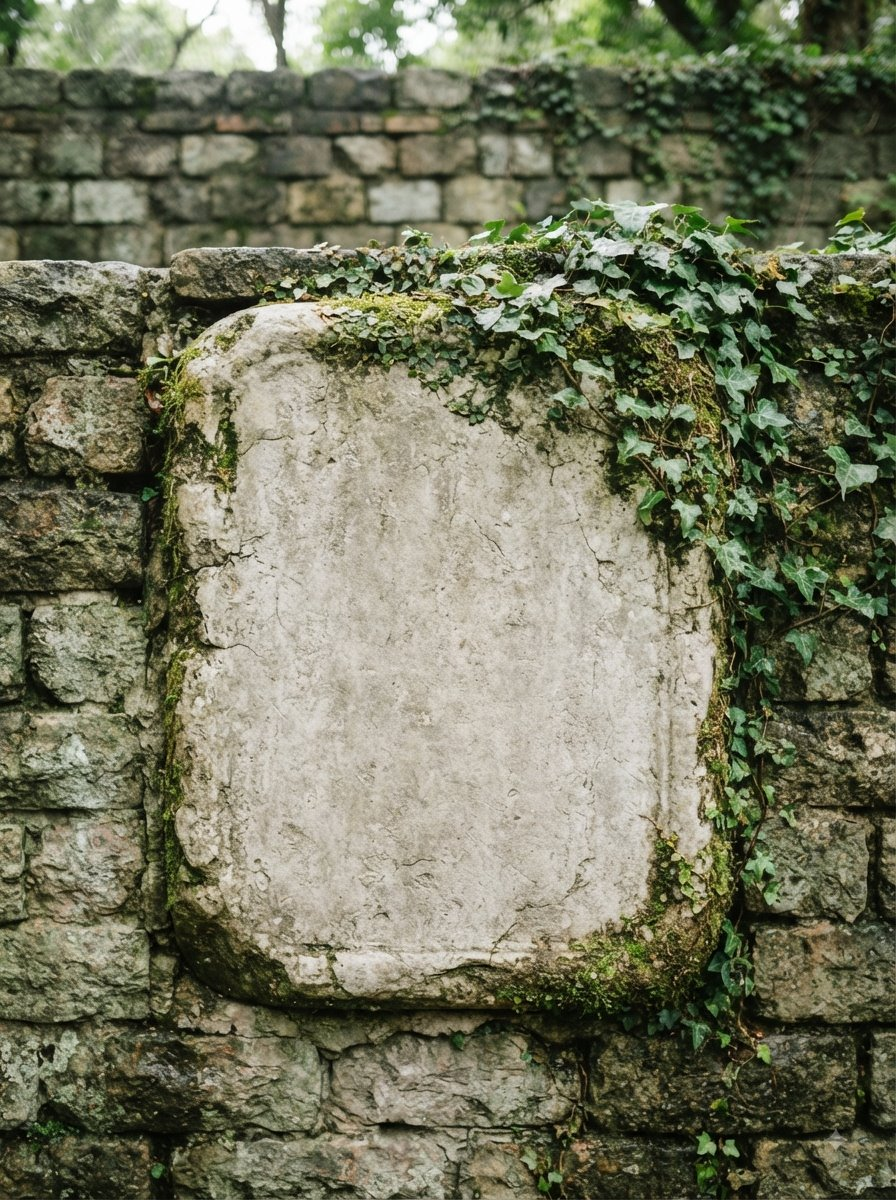
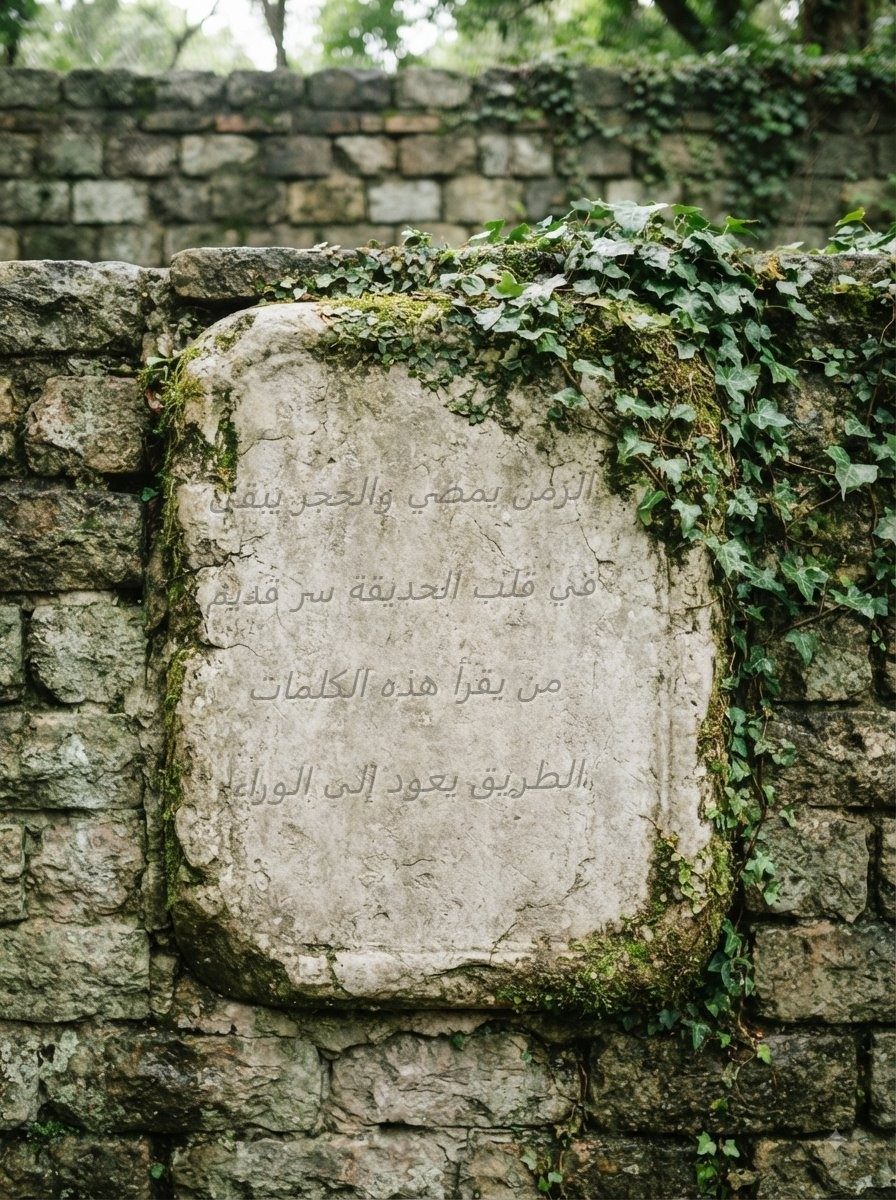
방탈출 검수반영 배치: 가든/머라이언 램프 정밀정렬+축소, 맵 핫스팟 확대(머라이언·라우파삿·유니버설·쇼윈도), 올드힐 하늘30%컷, 쇼윈도 정답플래시 수정, 남색버튼, 석판 각인

diff --git a/index.html b/index.html
@@ -689,7 +689,8 @@ const MAPS = {
     name:"비보시티", sub:"센토사로 가는 관문 쇼핑몰", photo:"img/vivocity.jpg",
     hotspots:[
       // ★먼지 낀 쇼윈도(북쑥 2026-08-14) — 손수건 골라 들고 문지르면 먼지가 지워지고 유리 안쪽의 "1461"이 드러난다.
-      { x:22,y:67, w:26,h:16, label:"먼지 낀 쇼윈도", hideIf:"vv_wiped", closeup:{
+      // (북쑥 2026-08-15: 쇼윈도 핫스팟 가로 2배 — 직사각형)
+      { x:26,y:67, w:52,h:16, label:"먼지 낀 쇼윈도", hideIf:"vv_wiped", closeup:{
         img:"img/closeup/vivocity_win.jpg", badge:"🪟",
         caption:"🪟 먼지가 잔뜩 낀 쇼윈도.\n안이 전혀 보이지 않는다.",
         action:{type:"wipe", dirty:"img/closeup/vivocity_win_dirty.jpg",
@@ -699,7 +700,7 @@ const MAPS = {
           doneMsg:"유리가 깨끗해졌다…!\n안쪽에 큼직한 숫자가 쓰여 있다.",
           setFlag:"vv_wiped"} }},
       // 닦은 뒤엔 깨끗한 모습
-      { x:22,y:67, w:26,h:16, label:"쇼윈도", showIf:"vv_wiped", closeup:{
+      { x:26,y:67, w:52,h:16, label:"쇼윈도", showIf:"vv_wiped", closeup:{
         img:"img/closeup/vivocity_win.jpg", badge:"🪟",
         caption:"🪟 깨끗해진 쇼윈도.\n유리 안쪽에 큼직한 숫자가 쓰여 있다.",
         action:{type:"clue"} }},
@@ -776,12 +777,13 @@ const MAPS = {
     name:"유니버설 스튜디오", sub:"지구본 앞 입구 광장", photo:"img/universal.jpg",
     hotspots:[
       // ★입장 게이트(왼쪽 아치) — 티켓 2장 있어야 내부 입장. ticket=머라이언 상자, ticket2=입수처 북쑥 제작 예정.
-      { x:9,y:46, w:21,h:19, label:"입장 게이트",
+      // (북쑥 2026-08-15: 유니버설 핫스팟 2배 + 게이트를 상점 높이(y58)로 내림)
+      { x:9,y:58, w:30,h:27, label:"입장 게이트",
         gate:{ items:["ticket","ticket2"], to:"universalin",
           msgs:["입구 직원이 웃으며 막아선다.\"티켓이 있어야 입장하실 수 있어요!\"",
                 "티켓이 한 장뿐이다…\n인원이 둘이라 두 장이 필요해..!"] } },
       // ★기념품 상점(북쑥 사진 2026-08-15) — 크리스탈⑥ = 동전 1개로 구매(자판기 동전의 사용처).
-      { x:84,y:58, w:18,h:13, label:"기념품 상점", hideIf:"uv_shop_done", closeup:{
+      { x:84,y:58, w:25,h:18, label:"기념품 상점", hideIf:"uv_shop_done", closeup:{
         img:"img/closeup/uv_shop.jpg", badge:"💎",
         caption:"🛍 길가의 작은 기념품 좌판.\n벨벳 방석 위에 크리스탈이 놓여 있다.\n가격표를 보니… 특별한 동전이 필요해 보인다!",
         action:{type:"clue"},
@@ -794,7 +796,7 @@ const MAPS = {
               remove:["coin"], setFlag:"uv_shop_done"} },
         ] }},
       // 크리스탈 판매 후 — 빈 방석 (동전도 크리스탈도 없음)
-      { x:84,y:58, w:18,h:13, label:"기념품 상점", showIf:"uv_shop_done", closeup:{
+      { x:84,y:58, w:25,h:18, label:"기념품 상점", showIf:"uv_shop_done", closeup:{
         img:"img/closeup/uv_shop_sold.jpg", badge:"💎",
         caption:"🛍 기념품 좌판.\n크리스탈은 팔렸다 — 내가 샀으니까!\n더 이상 여기에 볼일은 없어 보인다.",
         action:{type:"clue"} }},
@@ -820,13 +822,14 @@ const MAPS = {
     name:"라우파삿", sub:"옛 시장 호커센터", photo:"img/laupasat.jpg",
     hotspots:[
       // 왼쪽 화로에서 꼬치 굽는 사람 → 그릴 위 꼬치 5종 확대 (북쑥 제공 이미지)
-      { x:8,y:63, w:20,h:24, label:"꼬치 굽는 사람", closeup:{
+      // (북쑥 2026-08-15: 라우파삿 핫스팟 전부 넓이 2배)
+      { x:8,y:63, w:28,h:34, label:"꼬치 굽는 사람", closeup:{
         img:"img/closeup/laupasat_grill.jpg", badge:"🍢",
         caption:"🍢 화로 앞 아저씨가 꼬치를 굽고 있다.\n숯불 위에서 노릇노릇 익어간다…",
         action:{type:"clue"} }},
       // ★과일 가판대(북쑥 사진 2026-08-15) — 상자 색판 4칸 로테이션(빨→주→노→초→파랑→하늘), 정답 하·파·빨·주
       //   (힌트 = 경찰서 무지개 창 ①②③④ 색). 열면 용과 → 가방에서 과일칼로 잘라 크리스탈⑤.
-      { x:63,y:49, w:18,h:14, label:"과일 가판대", hideIf:"lp_fruit_done", closeup:{
+      { x:63,y:49, w:25,h:20, label:"과일 가판대", hideIf:"lp_fruit_done", closeup:{
         img:"img/closeup/lps_stall.jpg", badge:"🍈",
         caption:"🍈 과일이 잔뜩 쌓인 가판대.\n한가운데에 낡은 나무 상자가 놓여 있다.",
         action:{type:"clue"},
@@ -847,12 +850,12 @@ const MAPS = {
                   ] } } } },
         ] }},
       // 용과까지 챙긴 뒤 — 상자 팝업 없이 코멘트만 (북쑥 지시: 볼일 끝)
-      { x:63,y:49, w:18,h:14, label:"과일 가판대", showIf:"lp_fruit_done", closeup:{
+      { x:63,y:49, w:25,h:20, label:"과일 가판대", showIf:"lp_fruit_done", closeup:{
         img:"img/closeup/lps_stall.jpg", badge:"🍈",
         caption:"🍈 과일 가판대.\n더 이상 여기에 볼일은 없어 보인다.",
         action:{type:"clue"} }},
       // ★오른쪽 기둥의 낡은 찬장(북쑥 2026-08-14) — 나무판 5칸을 그릴 꼬치 순서(새우 파 은행 소 닭)로 → 크리스탈③
-      { x:92,y:60, w:18,h:22, label:"기둥의 낡은 찬장", closeup:{
+      { x:92,y:60, w:25,h:31, label:"기둥의 낡은 찬장", closeup:{
         img:"img/closeup/laupasat_cab.jpg", badge:"🗄",
         caption:"🗄 초록 기둥에 붙은 낡은 찬장.\n문짝에 네모난 나무판 다섯 개가 나란히 붙어 있다.",
         action:{type:"picker", set:"skewer", answer:["새우","파","은행","소","닭"],
@@ -869,7 +872,7 @@ const MAPS = {
   },
 
   police:{
-    name:"올드힐스트리트 경찰서", sub:"창문이 무지개색인 옛 경찰서", photo:"img/police.jpg",
+    name:"올드힐스트리트 경찰서", sub:"창문이 무지개색인 옛 경찰서", photo:"img/police.jpg?v=2",
     hotspots:[
       // ★초록 철문 (건물 우측 1층) — 동물 6개를 '크기 순서'(크레센도)대로 누르는 문제.
       //   힌트 = 공항 토이샵 인형 6종(전부 경찰모자) + 문에 그려진 크레센도·경찰모.
@@ -878,7 +881,8 @@ const MAPS = {
       //   dolls.jpg 픽셀 실측(키): 참새158 < 고양이194 < 코끼리228 < 곰276 < 토끼300 < 사자334
       //   맞을 때마다 초록 램프, 틀리면 빨강 번쩍+리셋, 완성 시 파랑+달칵(police_door).
       //   문 열리면 나오는 것(보상)은 북쑥 미정 — police_door 플래그에 붙이면 됨.
-      { x:92,y:87, w:15,h:14, label:"초록 철문", hideIf:"police_door", closeup:{
+      // (북쑥 2026-08-15) police.jpg 상단 30% 컷(원본=police_precrop_backup.jpg) — 좌표 환산(y-30)/0.7, h/0.7 + 넓이 2배
+      { x:92,y:81, w:21,h:28, label:"초록 철문", hideIf:"police_door", closeup:{
         img:"img/closeup/police_door.jpg", badge:"🚪",
         caption:"🚪 건물 옆 초록 철문.\n동물 문양 여섯 개와 불 꺼진 홈 여섯 개가 있다.",
         action:{type:"seq",
@@ -900,13 +904,13 @@ const MAPS = {
             action:{type:"clue"},
             subspots:[ {x:50,y:50,w:96,h:92,label:"안으로", goTo:"policein"} ] } } }},
       // 문이 열린 뒤: 같은 자리 클릭 → 열린 문 사진 팝업 → 사진 누르면 경찰서 안으로 (북쑥 지시)
-      { x:92,y:87, w:15,h:14, label:"열린 철문", showIf:"police_door", closeup:{
+      { x:92,y:81, w:21,h:28, label:"열린 철문", showIf:"police_door", closeup:{
         img:"img/closeup/police_door_open.jpg", badge:"🚪",
         caption:"🚪 문이 열려 있다.",
         action:{type:"clue"},
         subspots:[ {x:50,y:50,w:96,h:92,label:"안으로", goTo:"policein"} ] }},
       // 도로에 선 초록 2층버스 → 경찰차 클로즈업 → 트렁크 3자리 자물쇠
-      { x:57,y:86, w:30,h:12, label:"도로에 선 버스", closeup:{
+      { x:57,y:80, w:42,h:24, label:"도로에 선 버스", closeup:{
         img:"img/closeup/police_car.jpg", badge:"🚓",
         caption:"🚓 경찰차가 정차해 있다.",
         action:{type:"clue"},
@@ -1011,7 +1015,7 @@ const MAPS = {
             ] } } }},
       // ★고대 석판(북쑥 2026-08-14) — 이걸 본 뒤 브라우저 '뒤로가기'를 누르면 크리스탈④ (C안, popstate 트랩)
       { x:80,y:83, w:22,h:14, label:"벽에 박힌 석판", closeup:{
-        img:"img/closeup/fc_slab.jpg", badge:"🪨", seenFlag:"fc_slab",
+        img:"img/closeup/fc_slab.jpg?v=2", badge:"🪨", seenFlag:"fc_slab",   // v2=각인 4줄 합성본
         caption:"🪨 이끼 낀 고대 석판.\n새겨져 있던 글자는 닳았지만, 이렇게 읽힌다 —\n\n'앞으로만 달려온 자여,\n때로는 뒤를 돌아볼 필요가 있다.'",
         action:{type:"clue"} }},
     ],
@@ -1181,18 +1185,20 @@ const MAPS = {
         caption:"🚪 이끼 낀 벽에 박힌 작은 나무 벽장.\n색색 버튼 여섯 개 위로 화살표가 새겨져 있다.",
         action:{type:"seq", lampColors:true,
           answer:["r","o","p","g","r","y","s"],   // 꽃벽 일곱 송이 순서 그대로 = 빨 주 보 초 빨 노 하늘
+          // (2026-08-15 격자 재실측: 버튼 중심 y49.3, 존을 버튼 크기에 맞춤)
           zones:[
-            {k:"r", x:30.0,y:47.5, w:6.2,h:11, label:"빨간 버튼", color:"#e23b3b"},
-            {k:"o", x:37.0,y:47.4, w:6.2,h:11, label:"주황 버튼", color:"#f6942c"},
-            {k:"y", x:44.0,y:47.3, w:6.2,h:11, label:"노란 버튼", color:"#f2cc2a"},
-            {k:"g", x:50.8,y:47.2, w:6.0,h:11, label:"초록 버튼", color:"#58c85a"},
-            {k:"s", x:56.7,y:47.2, w:5.6,h:11, label:"하늘 버튼", color:"#54bdf0"},
-            {k:"p", x:62.2,y:47.2, w:5.6,h:11, label:"보라 버튼", color:"#8a4fd0"},
+            {k:"r", x:30.3,y:49.3, w:7,h:5.5, label:"빨간 버튼", color:"#e23b3b"},
+            {k:"o", x:36.9,y:49.3, w:7,h:5.5, label:"주황 버튼", color:"#f6942c"},
+            {k:"y", x:43.3,y:49.3, w:7,h:5.5, label:"노란 버튼", color:"#f2cc2a"},
+            {k:"g", x:49.8,y:49.3, w:7,h:5.5, label:"초록 버튼", color:"#58c85a"},
+            {k:"s", x:56.2,y:49.3, w:7,h:5.5, label:"하늘 버튼", color:"#54bdf0"},
+            {k:"p", x:62.3,y:49.3, w:7,h:5.5, label:"보라 버튼", color:"#8a4fd0"},
           ],
-          // 램프 = 확대 스트립 재실측(2026-08-14 북쑥 '위로 뜬다' 지적 → 구멍 px 312~600, y862→855 슬랜트 교정)
-          lamps:[{x:28.7,y:59.5},{x:33.4,y:59.5},{x:38.1,y:59.4},{x:42.7,y:59.3},
-                 {x:47.1,y:59.2},{x:51.3,y:59.1},{x:55.2,y:59.1}],
-          lampW:4.2, lampH:3.2,
+          // 램프 = 구멍 7개 격자 재실측(2026-08-15 북쑥 '왼쪽 쏠림' — 기존 간격 4.6→실제 5.15, 우상향 슬랜트)
+          //   크기도 검은 구멍에 맞춤(북쑥)
+          lamps:[{x:30.1,y:60.3},{x:35.2,y:60.1},{x:40.4,y:59.8},{x:45.5,y:59.6},
+                 {x:50.6,y:59.4},{x:55.8,y:59.1},{x:60.9,y:58.9}],
+          lampW:3.0, lampH:2.2,
           success:"달칵! 벽장 문이 열렸다.", setFlag:"garden_cab",
           prize:{ img:"img/closeup/garden_cab_open.jpg", badge:"💎", label:"열린 벽장",
             caption:"문이 열렸다.\n이끼 위에 크리스탈이 반짝인다…!",
@@ -1262,7 +1268,8 @@ const MAPS = {
       // 등쪽 열쇠 홈 — 터널에서 얻은 앤틱 열쇠(key5)를 꽂는 곳. 꽂으면 ml_key.
       // ★이후 기믹(북쑥 예고): 머라이언 물줄기가 강·약으로 나가는 연출 — 순서는 [강 약 중 강 중 약].
       //   강/약 이미지는 북쑥이 보내줄 예정. 오면 ml_key 상태의 맵 배경 애니로 붙인다.
-      { x:11,y:67, w:20,h:19, label:"머라이언 등쪽", hideIf:"ml_key", closeup:{
+      // (북쑥 2026-08-15: 맵 핫스팟 2배 + 등쪽은 사자상 몸통 위치로 올림 y67→58)
+      { x:11,y:58, w:28,h:26, label:"머라이언 등쪽", hideIf:"ml_key", closeup:{
         img:"img/closeup/merlion_back.jpg", badge:"🗝",
         caption:"🗝 등에 열쇠 모양 홈이 파여 있다.",
         action:{type:"clue"},
@@ -1277,7 +1284,7 @@ const MAPS = {
                 action:{type:"clue"} } } },
         ] }},
       // 열쇠 꽂은 뒤엔 꽂힌 모습으로
-      { x:11,y:67, w:20,h:19, label:"머라이언 등쪽", showIf:"ml_key", closeup:{
+      { x:11,y:58, w:28,h:26, label:"머라이언 등쪽", showIf:"ml_key", closeup:{
         img:"img/closeup/merlion_back_key.jpg", badge:"🗝",
         caption:"🗝 열쇠가 등에 꽂혀 있다.",
         action:{type:"clue"} }},
@@ -1285,7 +1292,7 @@ const MAPS = {
       // ★물가 나무 상자 — 물줄기 문양 버튼 6타 [강약중강중약] → 유니버설 입장 티켓 (북쑥 2026-08-13)
       //   2026-08-14 원본(비반전)으로 복귀 + 위치를 사자상 앞 '곶'(전망 데크)으로 — 곶에서 보면 원래 방향이 맞음(북쑥).
       //   버튼 왼→오 = 약·중·강 (원본). 정답은 여전히 강약중강중약(라벨 기준이라 로직 무변).
-      { x:48,y:63, w:24,h:10, label:"물가의 나무 상자", closeup:{
+      { x:48,y:63, w:34,h:14, label:"물가의 나무 상자", closeup:{   // (북쑥: 넓이 2배)
         img:"img/closeup/merlion_box.jpg", badge:"📦",
         caption:"📦 물가 돌턱에 놓인 나무 상자.\n물줄기 문양 버튼 세 개와 작은 구멍 여섯 개가 있다.",
         action:{type:"seq",
@@ -1295,9 +1302,10 @@ const MAPS = {
             {k:"m", x:50,y:62, w:17,h:16, label:"중간 물줄기 버튼"},
             {k:"s", x:74,y:62, w:17,h:16, label:"센 물줄기 버튼"},
           ],
-          lamps:[{x:28.1,y:73.2},{x:37.0,y:73.2},{x:45.9,y:73.2},
-                 {x:54.7,y:73.2},{x:63.7,y:73.2},{x:72.6,y:73.2}],
-          lampW:5.5, lampH:4.1,
+          // (2026-08-15 격자 재실측: 구멍 6개 y75.4 — 기존 73.2가 위로 쏠림. 크기도 구멍에 맞춤)
+          lamps:[{x:29.7,y:75.4},{x:38.5,y:75.4},{x:47.1,y:75.4},
+                 {x:55.5,y:75.4},{x:63.9,y:75.4},{x:72.5,y:75.4}],
+          lampW:3.2, lampH:2.6,
           success:"딸깍! 걸쇠가 풀리며 뚜껑이 열렸다.", setFlag:"ml_box",
           prize:{ img:"img/closeup/merlion_box_open.jpg", badge:"🎫", label:"열린 상자",
             caption:"뚜껑이 열렸다.\n안에서 황금빛이 새어 나온다…!",
@@ -1866,7 +1874,7 @@ const CPANEL_COLORS = [   // 라우파삿 과일 상자 색판 — 로테이션 
   {k:"주", c:"#f7862c"},
   {k:"노", c:"#ffd43b"},
   {k:"초", c:"#37b24d"},
-  {k:"파", c:"#1c6fe0"},
+  {k:"파", c:"#1b3fc0"},   // (북쑥 2026-08-15: 더 찐한 남색 수준으로)
   {k:"하", c:"#6fd0ff"},
 ];
 const SKEWER_ICONS = [
@@ -2029,11 +2037,15 @@ function buildMirrorView(a){
    threshold(기본 0.68) 이상 지우면 완료 — 남은 먼지는 서서히 사라짐.
    쓰는 법: action:{type:"wipe", dirty:"img/...", needItem:"hankie", no, pick, doneMsg, setFlag} */
 let wipeCtx=null;
-function clearWipe(){ const c=document.querySelector("#cuImgWrap .cu-wipe"); if(c) c.remove(); wipeCtx=null; }
+function clearWipe(){ const c=document.querySelector("#cuImgWrap .cu-wipe"); if(c) c.remove(); wipeCtx=null;
+  const im=$("#cuImg"); if(im) im.style.visibility=""; }   // (2026-08-15) 아래 숨김 원복
 function buildWipe(a, id){
   clearWipe();
   const wrap=$("#cuImgWrap"); if(!wrap) return;
   if(state.done[id]){ $("#cuLockBadge").textContent="✅"; return; }   // 이미 닦음 → 깨끗한 사진만
+  // ★깨끗한(정답) 사진이 먼지 캔버스보다 먼저 떠서 잠깐 보이는 문제(북쑥 2026-08-15) →
+  //   먼지 캔버스가 그려질 때까지 밑 사진을 숨긴다
+  $("#cuImg").style.visibility="hidden";
   const cv=document.createElement("canvas"); cv.className="cu-wipe";
   cv.style.cssText="position:absolute;inset:0;width:100%;height:100%;z-index:6;touch-action:none;cursor:pointer;";
   wrap.appendChild(cv);
@@ -2043,7 +2055,9 @@ function buildWipe(a, id){
     const ctx=cv.getContext("2d");
     ctx.drawImage(img,0,0,cv.width,cv.height);
     wipeCtx={cv,ctx,n:0,warned:false};
+    $("#cuImg").style.visibility="";   // 먼지가 덮였으니 밑 사진 복귀
   };
+  img.onerror=function(){ $("#cuImg").style.visibility=""; };
   img.src=a.dirty;
   const rub=(ev)=>{
     if(!wipeCtx||state.done[id]) return;
